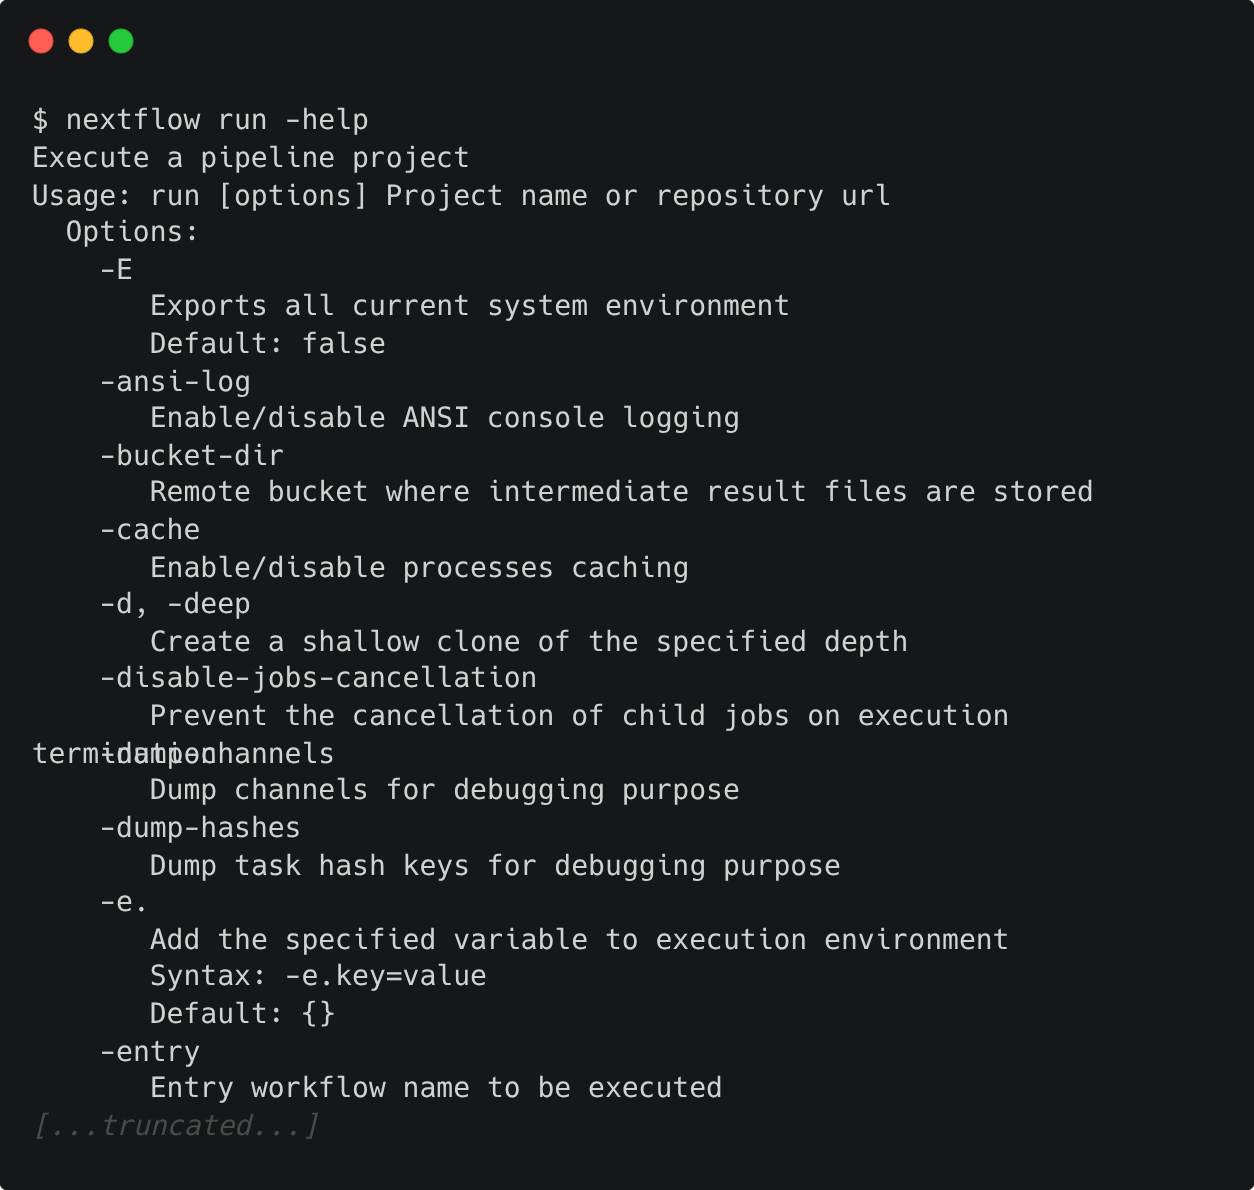
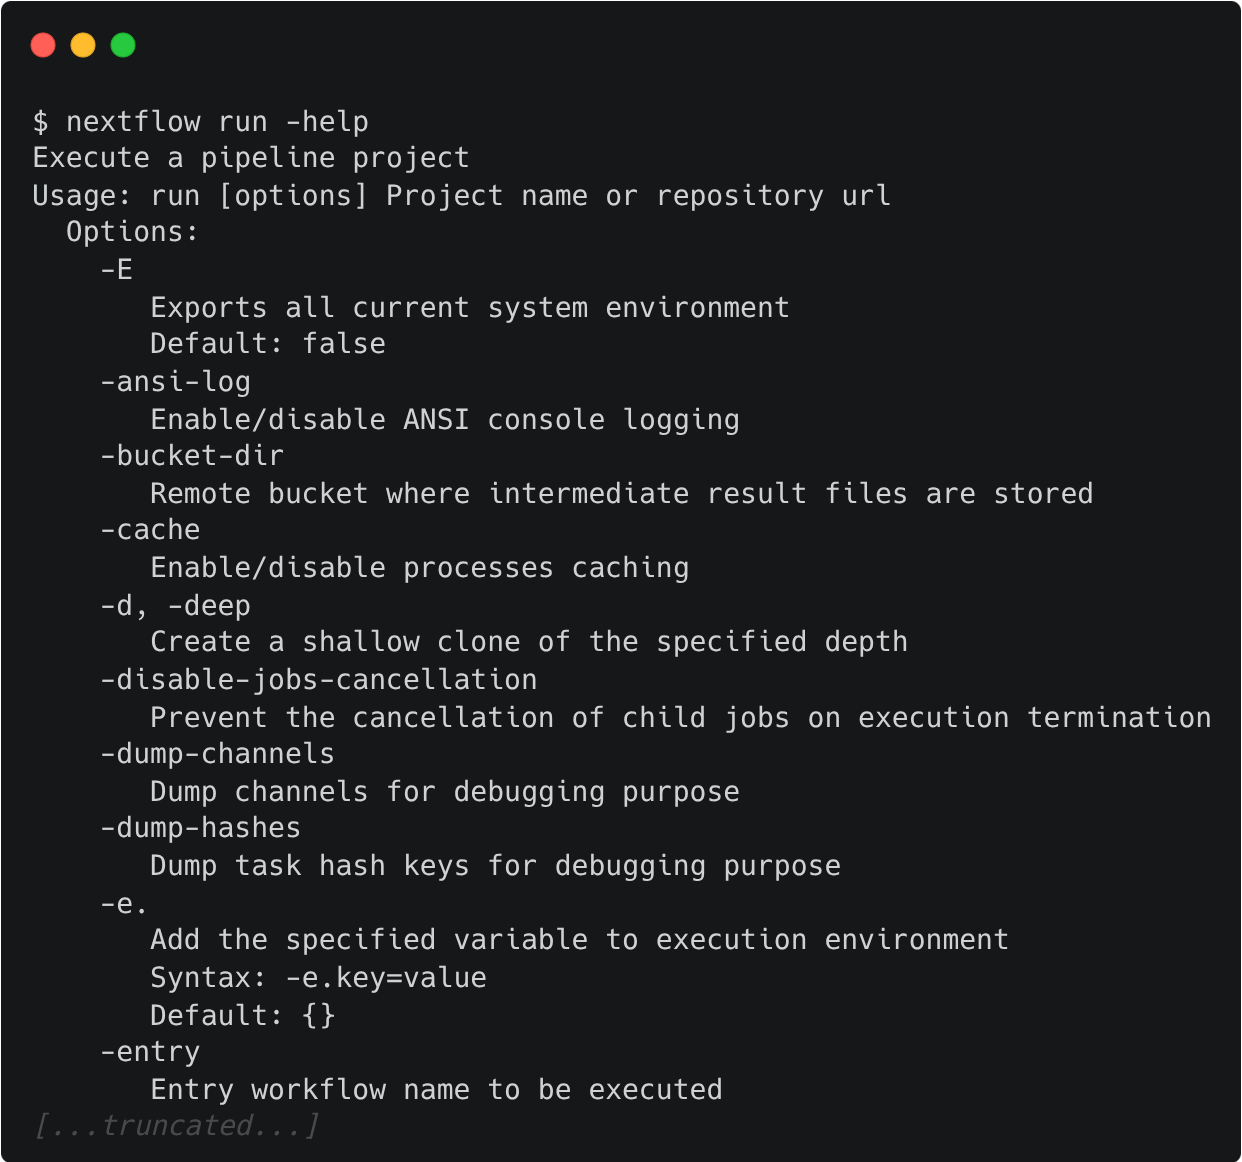
fix nextflow run help image, custom config examples

Changed region(s): [[0.0306, 0.2478, 0.9791, 0.9914], [0.0306, 0.0929, 0.7343, 0.2478], [0.0, 0.0, 0.1224, 0.062]]

diff --git a/docs/session_1/1.3_configure.md b/docs/session_1/1.3_configure.md
@@ -484,7 +484,7 @@ is equivalent to:
 ```groovy
 process {
     cpus = 1
-    memory = 'string value..'
+    memory = '4 GB'
 }
 ```
 